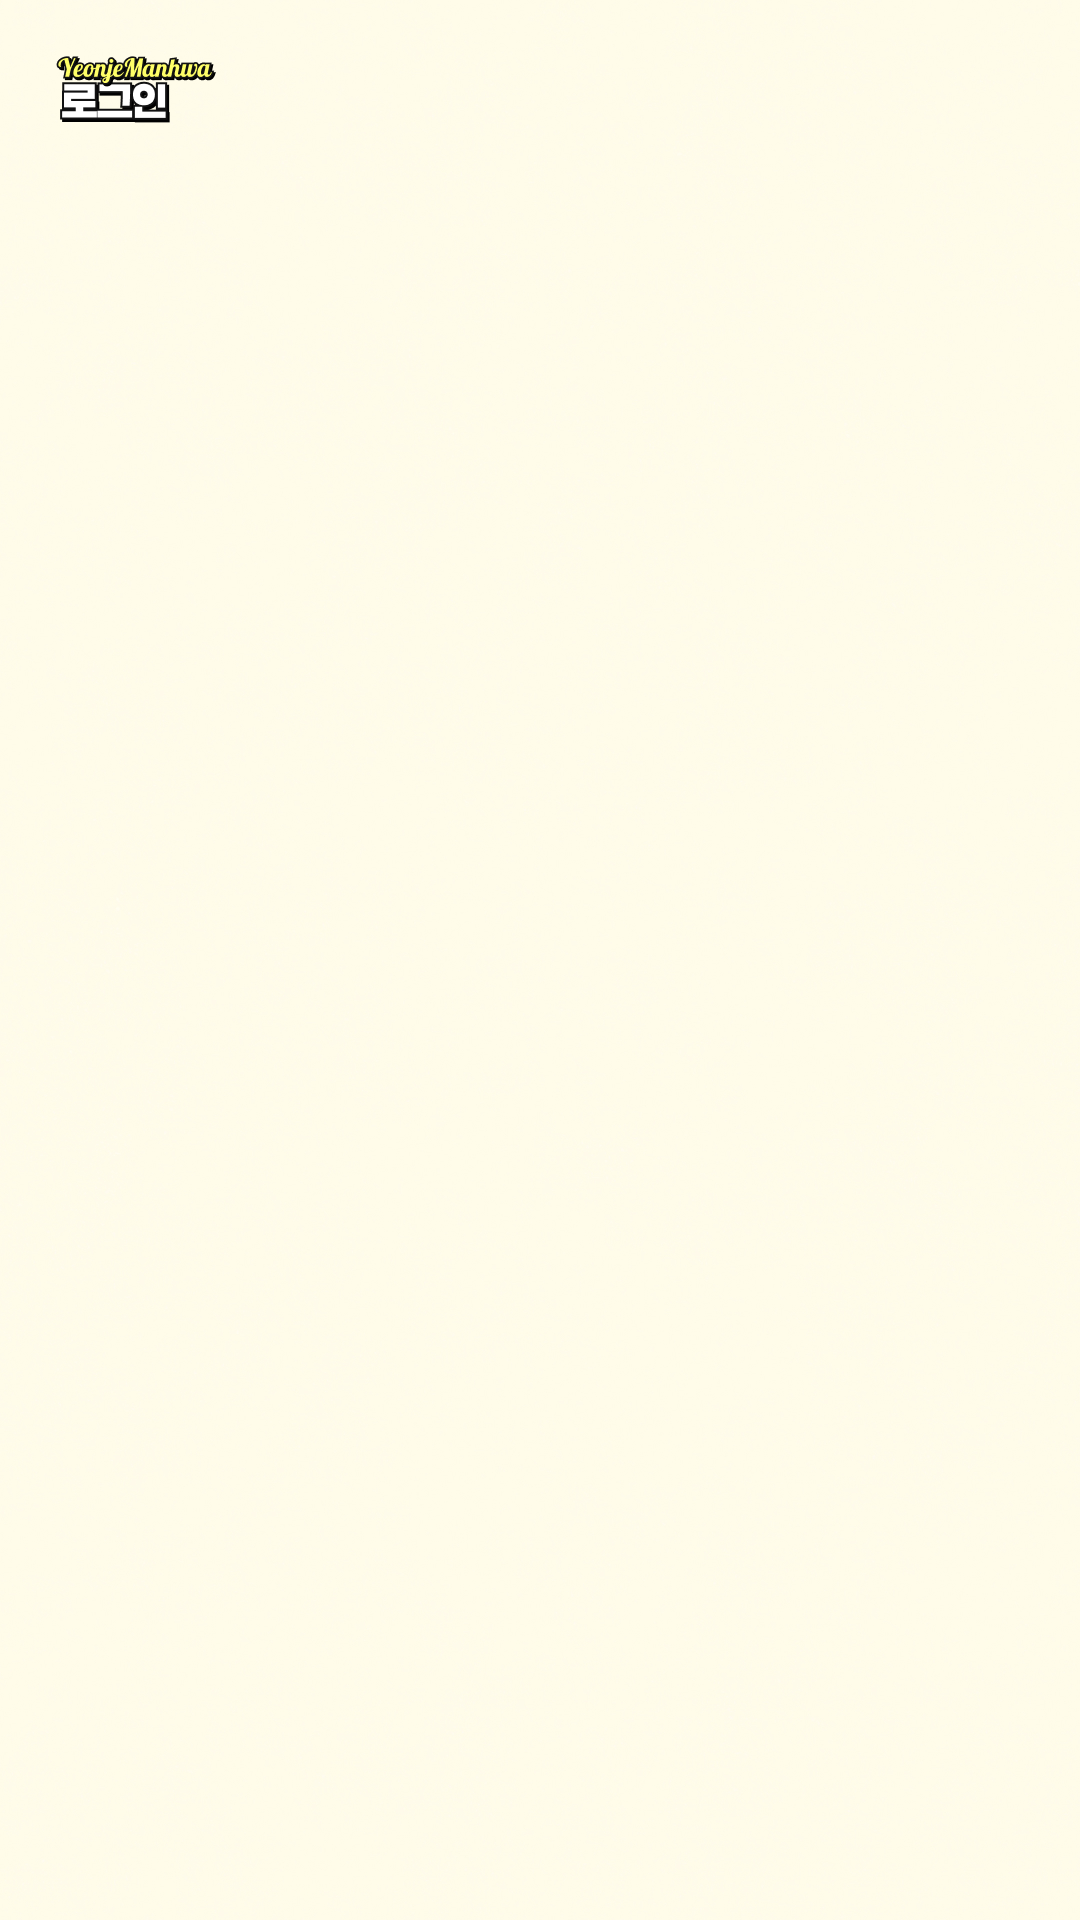
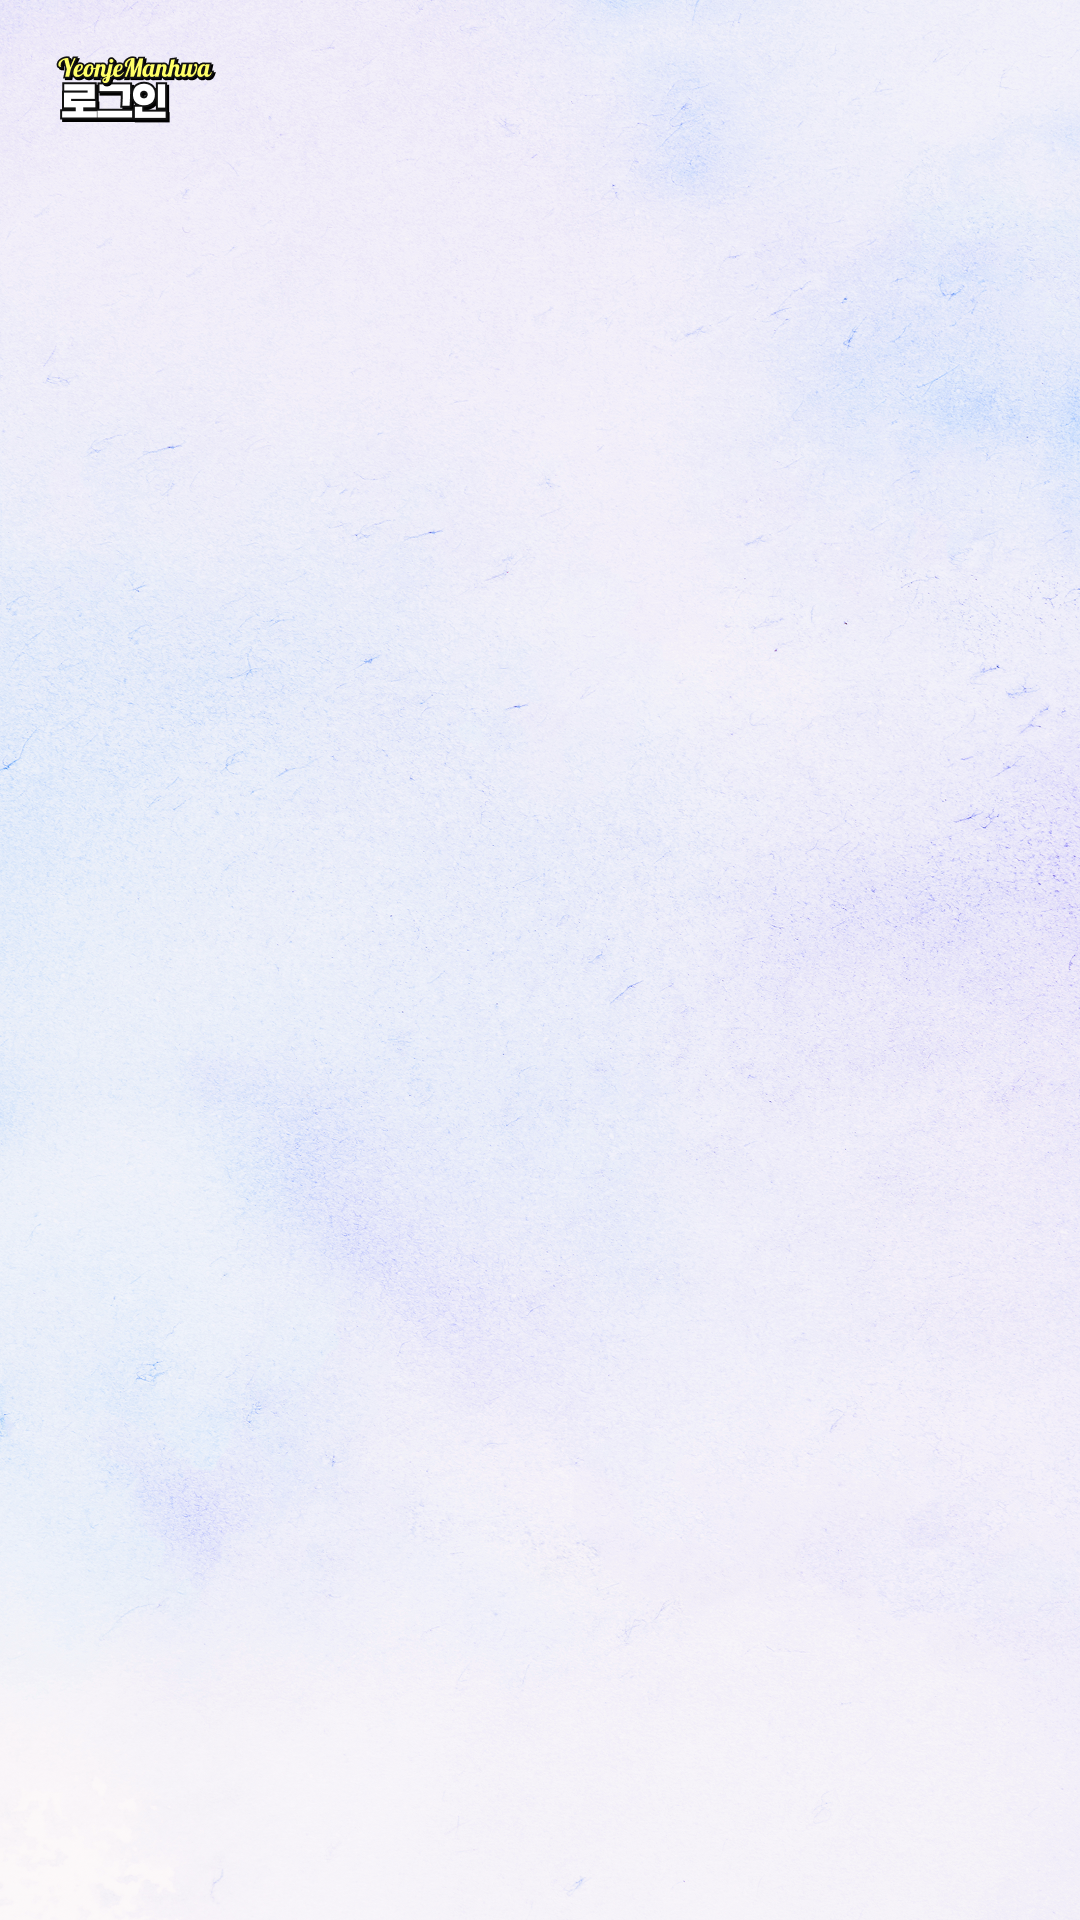
[feat] 키오스크 로그인 페이지 작업 완료

diff --git a/resources/ict/css/kiosk/login.css b/resources/ict/css/kiosk/login.css
@@ -53,7 +53,7 @@
   height: 272px;
   padding: 0 60px 0 252px;
   border-radius: 80px;
-  border: 4px solid #755941;
+  border: 4px solid #121212;
   background: #FFF;
   color: #121212;
   font-family: "Pretendard-Medium", sans-serif;
@@ -79,7 +79,7 @@
   margin-bottom: 548px;
   width: 100%;
   border-radius: 80px;
-  background: #7F756A;
+  background: #121212;
   display: flex;
   height: 272px;
   justify-content: center;
@@ -108,7 +108,7 @@
 .move_to_rfid {
   width: 100%;
   border-radius: 80px;
-  background: #FF8737;
+  background: #8066DE;
   display: flex;
   height: 272px;
   justify-content: center;
@@ -151,7 +151,7 @@
     height: 136px;
     padding: 0 30px 0 126px;
     border-radius: 40px;
-    border: 2px solid #755941;
+    border: 2px solid #121212;
     font-size: 34px;
     letter-spacing: -0.68px;
     margin-bottom: 16px;
